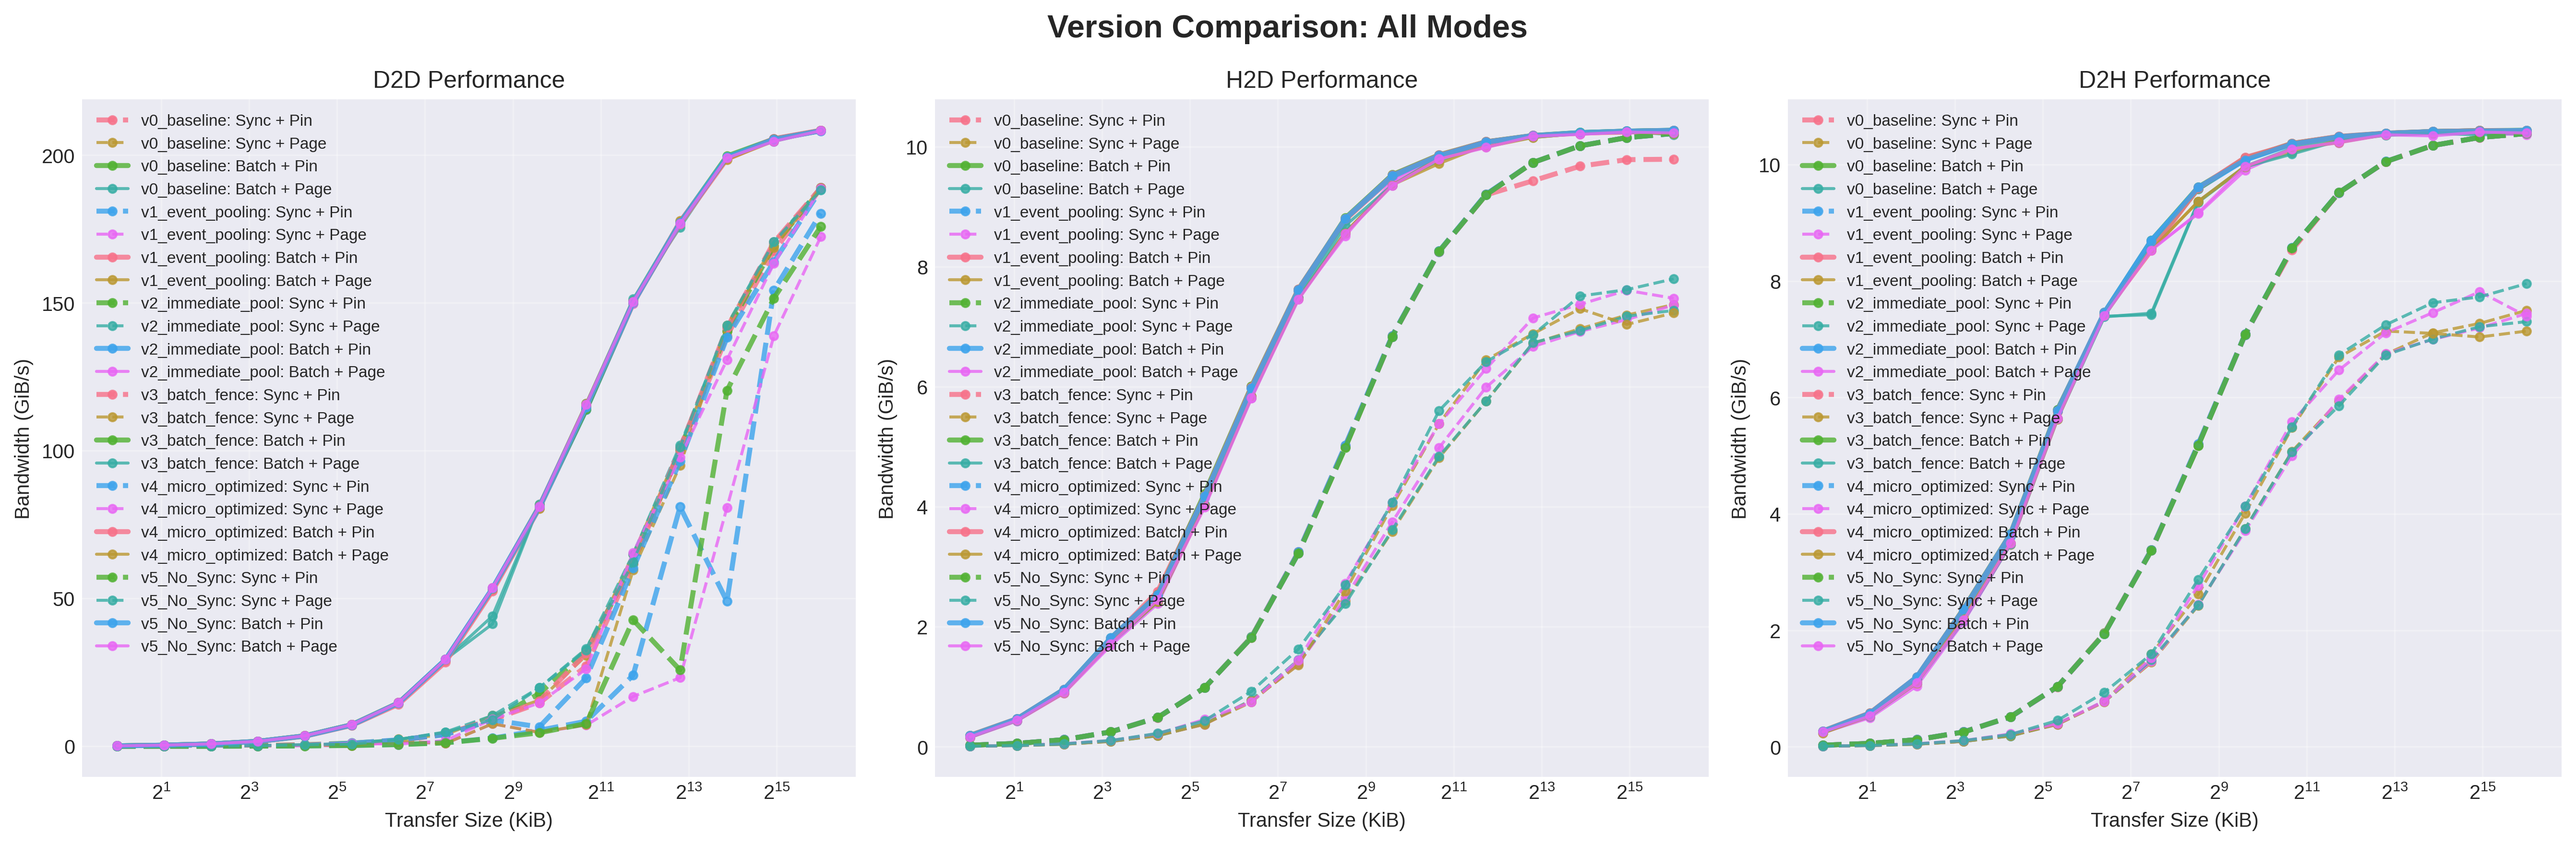
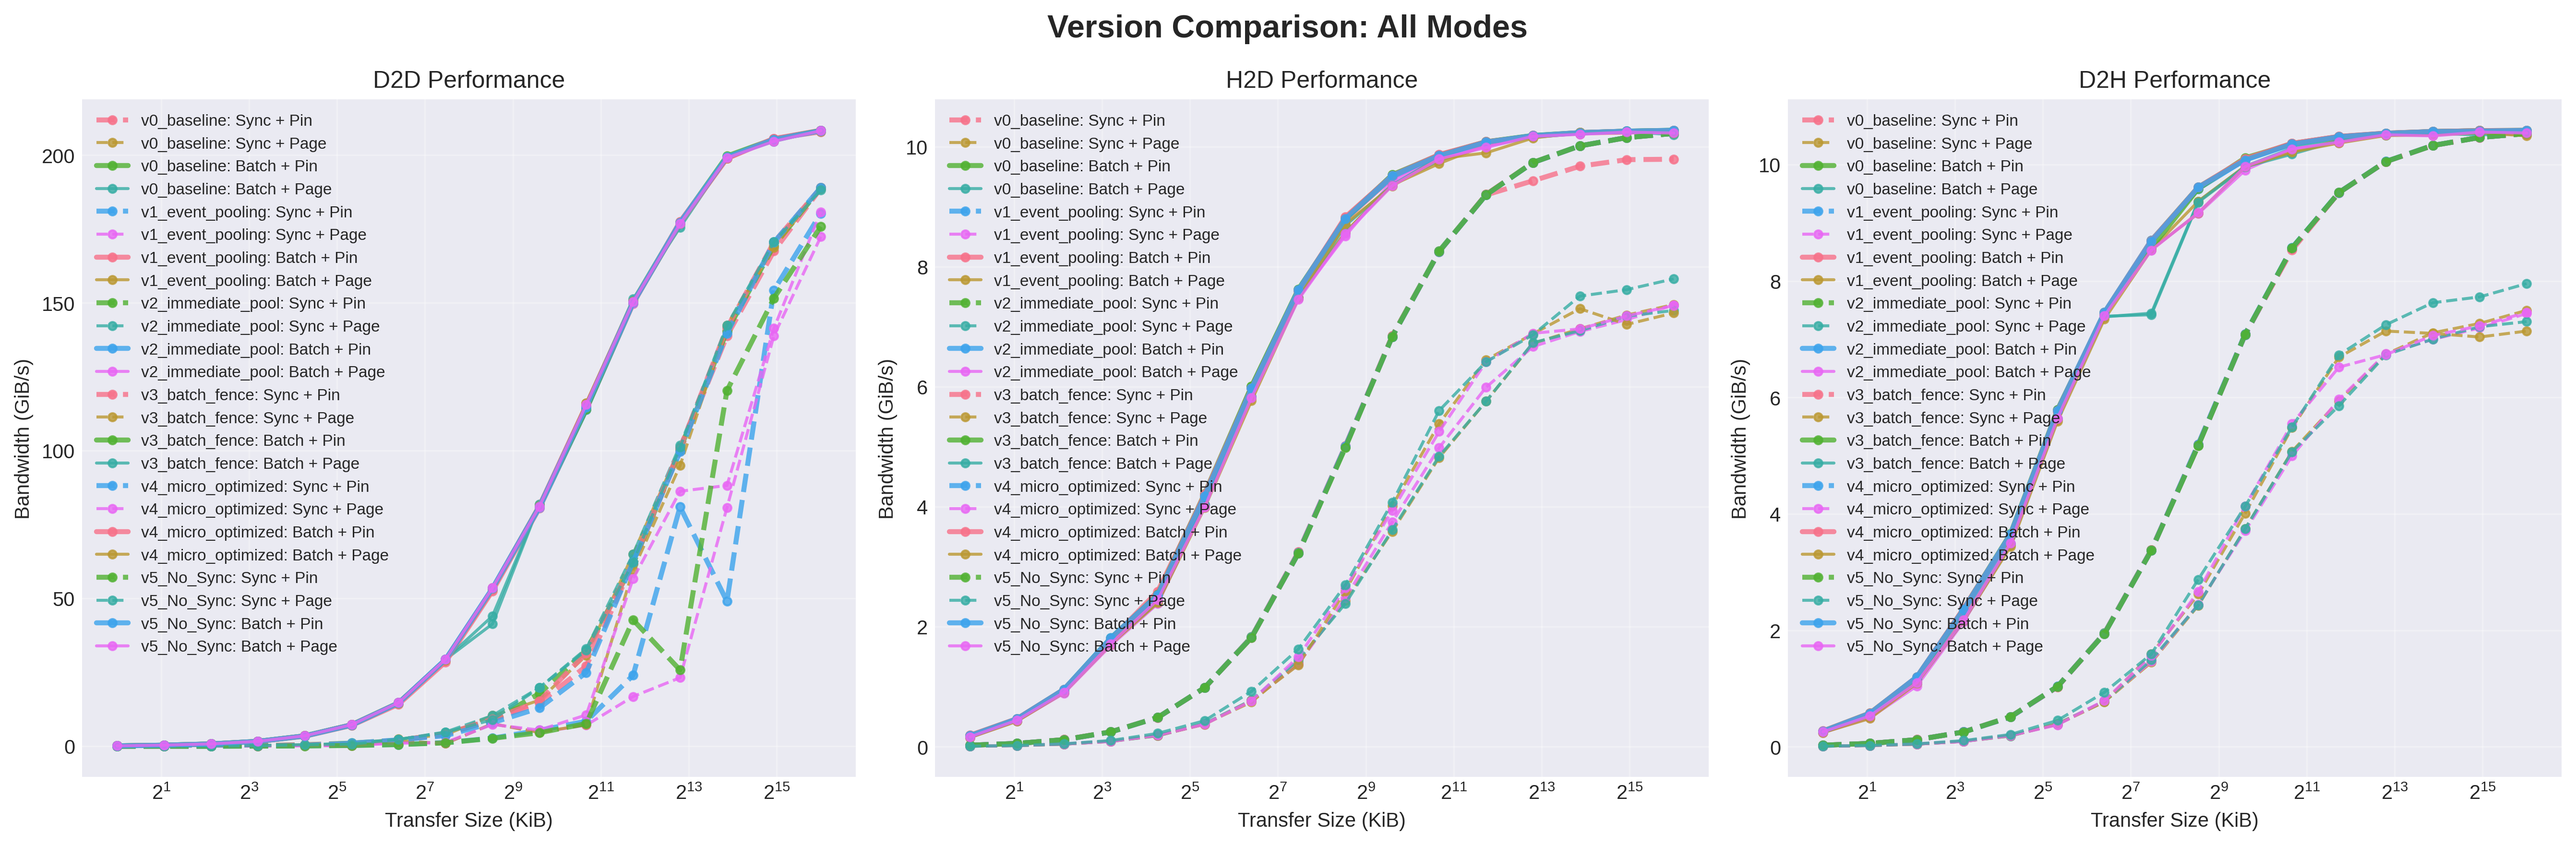
current version comp plots

diff --git a/bench/comparison_all/version_comparison.md b/bench/comparison_all/version_comparison.md
@@ -50,18 +50,18 @@
 | v3_batch_fence | D2H | Sync | No | 7.14 | 2.11 |
 | v3_batch_fence | D2H | Batch | Yes | 10.59 | 9.08 |
 | v3_batch_fence | D2H | Batch | No | 10.55 | 8.39 |
-| v4_micro_optimized | D2D | Sync | Yes | 188.33 | 5.24 |
-| v4_micro_optimized | D2D | Sync | No | 188.68 | 5.54 |
-| v4_micro_optimized | D2D | Batch | Yes | 208.32 | 41.04 |
-| v4_micro_optimized | D2D | Batch | No | 208.33 | 41.44 |
-| v4_micro_optimized | H2D | Sync | Yes | 10.22 | 4.14 |
-| v4_micro_optimized | H2D | Sync | No | 7.61 | 2.08 |
-| v4_micro_optimized | H2D | Batch | Yes | 10.27 | 8.21 |
-| v4_micro_optimized | H2D | Batch | No | 10.24 | 8.01 |
+| v4_micro_optimized | D2D | Sync | Yes | 189.05 | 5.77 |
+| v4_micro_optimized | D2D | Sync | No | 180.83 | 3.40 |
+| v4_micro_optimized | D2D | Batch | Yes | 207.91 | 41.16 |
+| v4_micro_optimized | D2D | Batch | No | 208.07 | 41.36 |
+| v4_micro_optimized | H2D | Sync | Yes | 10.22 | 4.12 |
+| v4_micro_optimized | H2D | Sync | No | 7.36 | 2.08 |
+| v4_micro_optimized | H2D | Batch | Yes | 10.27 | 8.22 |
+| v4_micro_optimized | H2D | Batch | No | 10.25 | 8.09 |
 | v4_micro_optimized | D2H | Sync | Yes | 10.53 | 4.29 |
-| v4_micro_optimized | D2H | Sync | No | 7.82 | 2.15 |
-| v4_micro_optimized | D2H | Batch | Yes | 10.58 | 9.06 |
-| v4_micro_optimized | D2H | Batch | No | 10.56 | 8.95 |
+| v4_micro_optimized | D2H | Sync | No | 7.46 | 2.12 |
+| v4_micro_optimized | D2H | Batch | Yes | 10.59 | 9.15 |
+| v4_micro_optimized | D2H | Batch | No | 10.55 | 8.85 |
 | v5_No_Sync | D2D | Sync | Yes | 175.86 | 1.93 |
 | v5_No_Sync | D2D | Sync | No | 188.17 | 6.85 |
 | v5_No_Sync | D2D | Batch | Yes | 208.28 | 41.41 |
